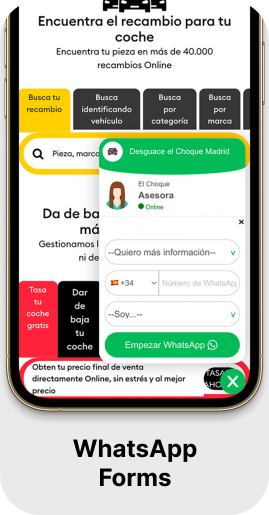
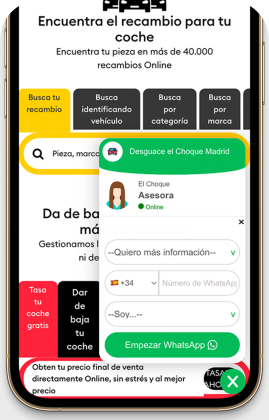
font inter added

diff --git a/index.html b/index.html
@@ -3,6 +3,12 @@
   <head>
     <meta charset="UTF-8" />
     <meta name="viewport" content="width=device-width, initial-scale=1.0" />
+    <link rel="preconnect" href="https://fonts.googleapis.com" />
+    <link rel="preconnect" href="https://fonts.gstatic.com" crossorigin />
+    <link
+      href="https://fonts.googleapis.com/css2?family=Inter:wght@100;400;500;700&display=swap"
+      rel="stylesheet"
+    />
     <title>Photo Grid</title>
 
     <!--     <style>
@@ -167,12 +173,13 @@
     </div>
     <style>
       .card {
+        font-family: "Inter", sans-serif;
         display: flex;
         flex-direction: column;
         justify-content: center;
         align-items: center;
         background: #f5f5f5;
-        font-size: 1.2rem;
+        font-size: 1rem;
         color: #fff;
         box-shadow: rgba(3, 8, 20, 0.1) 0px 0.15rem 0.5rem,
           rgba(2, 8, 20, 0.1) 0px 0.075rem 0.175rem;
@@ -189,7 +196,7 @@
       }
 
       .card > p {
-        font-size: 24px;
+        font-size: 1.2rem;
         font-weight: 700;
         line-height: 29px;
         text-align: center;
